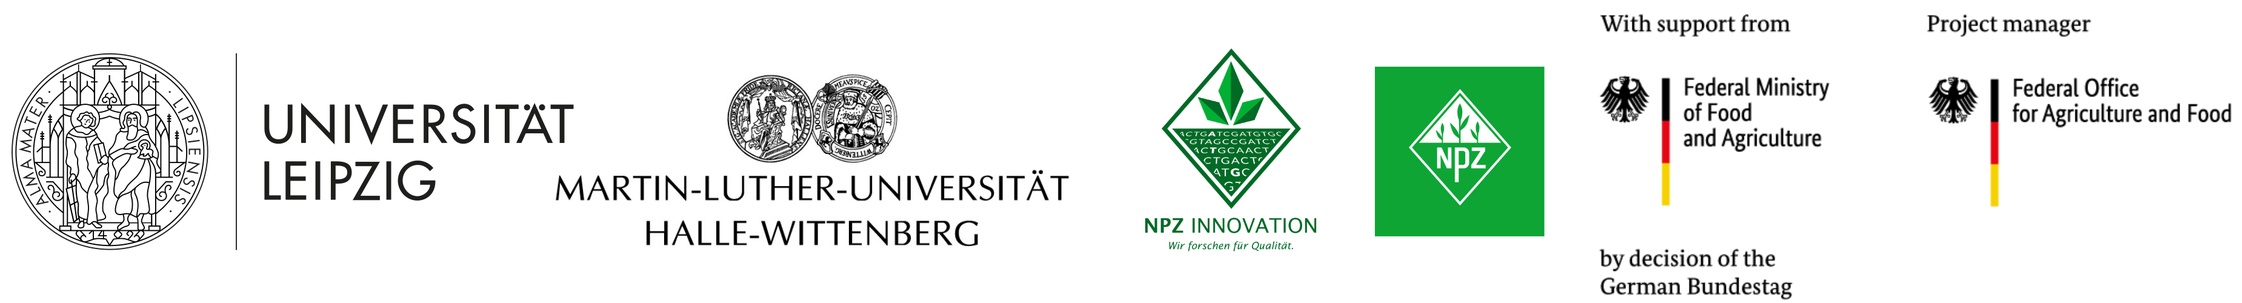
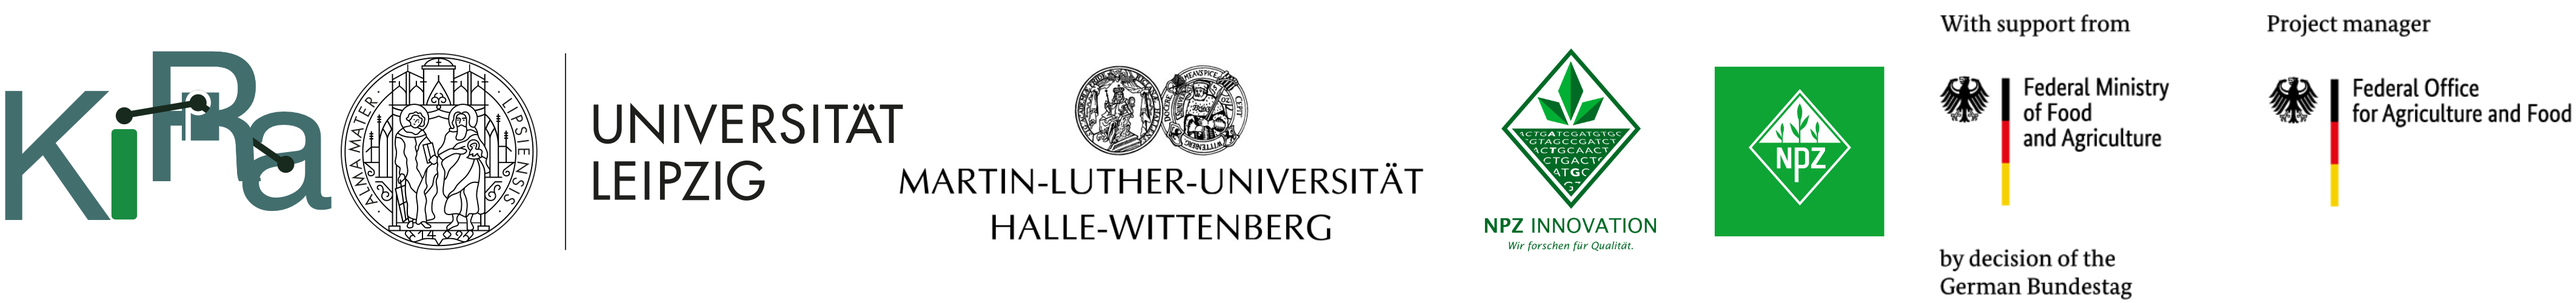
website update

Changed region(s): [[0.0, 0.15, 1.0, 0.84], [0.7149, 0.81, 0.8392, 0.99], [0.7149, 0.03, 0.9635, 0.12]]

diff --git a/index.md b/index.md
@@ -20,6 +20,8 @@
 
 ### **Acknowledgments**
 
+This work is supported by funds from the German Federal Ministry of Food and Agriculture (BMEL), based on a decision of the Parliament of the Federal Republic of Germany. The German Federal Office for Agriculture and Food (BLE) provides coordinating support for artificial intelligence (AI) in agriculture as the funding organisation, grant number 28DK116C20. The dataset was created as part of the research project “KIRa - KI-gestützte Plattform zur Klassifikation und Sortierung von Pflanzensamen: Bewertung der Saatgutreinheit am Musterfall Raps" (engl. "AI-supported platform for classifying and sorting plant seeds: Evaluation of seed purity using oilseed rape as a model case").
+
 ---
 
 ### **Citation**
